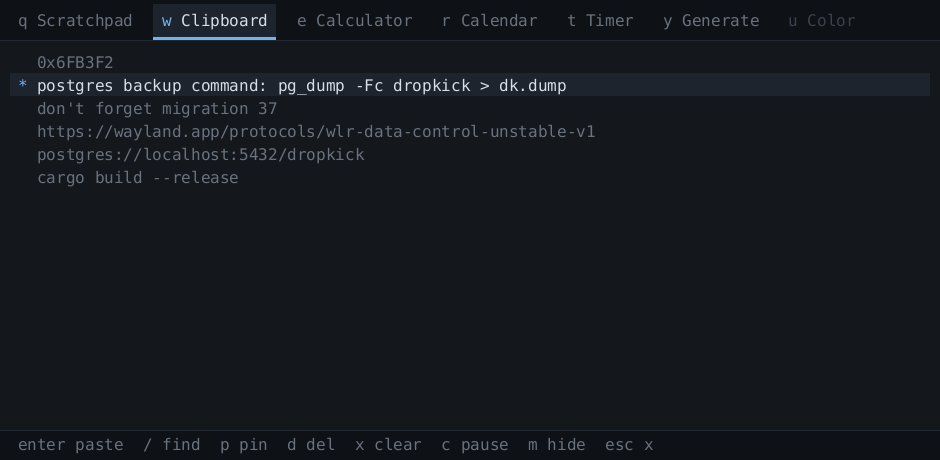
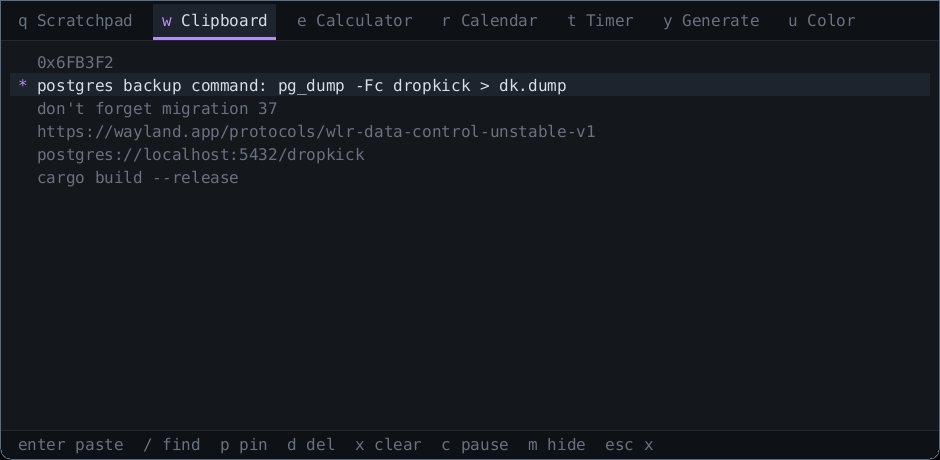
Give each tool its own accent colour
Which tool the panel is in should be readable from the corner of your
eye rather than by reading the tab bar. The active tab's underline and
key letter carry the accent, and so does everything inside it -- the
cursor, the focused day, a running timer's readout, the copied notice.

The palette lives in render.rs, not in core. Core has never known a
colour and should not start: Tool carries a key and a name, and that is
the whole of what it should know about being displayed.

Four constraints, each of them a test rather than a claim. Distinct.
Clear of ERR by more than 30 degrees of hue, so an accent cannot read as
an error. At least 4.5:1 against BG, needed in both directions because
accents are drawn as text and also filled behind background-coloured
text, which is how the Scratchpad's block cursor works. And more than 25
degrees apart from each other, since two tools a few degrees apart look
identical in the peripheral vision this exists for.

Inactive tabs stay dim. Colouring all seven at once was the obvious
thing to try and it is noise -- the signal is which one is lit, and
colouring the unlit ones competes with it.

Committed screenshots regenerated; every one of them shows a tab bar.

310 tests, clippy clean, cargo deny clean.

diff --git a/crates/dropkick-linux/src/render.rs b/crates/dropkick-linux/src/render.rs
@@ -24,7 +24,35 @@ const PAD: f32 = 18.0;
 const BG: u32 = 0x14_171C;
 const TAB_BG: u32 = 0x0E_1115;
 const TAB_ACTIVE: u32 = 0x1E_242E;
+/// The Scratchpad's accent, and the colour the panel wore before the rest of
+/// the tools had their own. Kept as the fallback.
 const ACCENT: u32 = 0x6F_B3F2;
+
+/// One accent per tool, so which tool you are in is readable from the corner of
+/// your eye rather than by reading the tab bar.
+///
+/// Chosen with three constraints, not for prettiness:
+///
+/// * **Well clear of `ERR`** (`0xE06C75`, a salmon red). An accent that could be
+///   mistaken for an error message would undo the point of having an error
+///   colour. Nothing here is redder than 320 degrees of hue.
+/// * **Light enough to read as text on `BG`**, and light enough that `BG` reads
+///   as text on *it* -- the Scratchpad's block cursor fills with the accent and
+///   draws the character in the background colour.
+/// * **Separated in hue**, not just in name. Two tools a few degrees apart are
+///   two tools you cannot tell apart in peripheral vision, which is the only
+///   thing this is for.
+fn accent(id: ToolId) -> u32 {
+    match id {
+        ToolId::Scratchpad => ACCENT,      // blue
+        ToolId::Clipboard => 0xB4_8EF2,    // violet
+        ToolId::Calculator => 0x7F_D69B,   // green
+        ToolId::Calendar => 0xE8_B36F,     // amber
+        ToolId::Timer => 0x5F_D3D6,        // cyan
+        ToolId::Generate => 0xB8_D96F,     // lime
+        ToolId::Color => 0xE8_8FD0,        // orchid
+    }
+}
 const FG: u32 = 0xD8_DEE9;
 const DIM: u32 = 0x69_727F;
 const FAINT: u32 = 0x3A_4250;
@@ -191,7 +219,7 @@ fn draw_tabs(app: &App, text: &mut TextRenderer, canvas: &mut Canvas) {
         if active {
             canvas.fill_rect((x - 9.0) as i32, 4, (w + 18.0) as i32, TAB_H - 4, TAB_ACTIVE);
             // Accent underline: which tab owns the keyboard right now.
-            canvas.fill_rect((x - 9.0) as i32, TAB_H - 3, (w + 18.0) as i32, 3, ACCENT);
+            canvas.fill_rect((x - 9.0) as i32, TAB_H - 3, (w + 18.0) as i32, 3, accent(tool.id));
         }
 
         // A running timer is visible from any tab: the point of a countdown is
@@ -201,7 +229,7 @@ fn draw_tabs(app: &App, text: &mut TextRenderer, canvas: &mut Canvas) {
         let key_color = if !tool.built {
             FAINT
         } else if active {
-            ACCENT
+            accent(tool.id)
         } else {
             DIM
         };
@@ -210,7 +238,7 @@ fn draw_tabs(app: &App, text: &mut TextRenderer, canvas: &mut Canvas) {
         } else if active {
             FG
         } else if live {
-            ACCENT
+            accent(tool.id)
         } else {
             DIM
         };
@@ -259,7 +287,7 @@ fn draw_calculator(
     );
 
     let prompt = "> ";
-    let pen = text.draw(canvas, PAD, input_baseline, prompt, ACCENT);
+    let pen = text.draw(canvas, PAD, input_baseline, prompt, accent(app.active));
     let pen = text.draw(canvas, pen, input_baseline, &app.calculator.input, FG);
     // Caret: a thin bar, because the calculator is always in text entry.
     canvas.fill_rect(
@@ -267,7 +295,7 @@ fn draw_calculator(
         (input_baseline - text.line_height() * 0.72) as i32,
         2,
         (text.line_height() * 0.85) as i32,
-        ACCENT,
+        accent(app.active),
     );
 
     if let (Some(err), Some(y)) = (&app.calculator.error, err_baseline) {
@@ -344,7 +372,7 @@ fn draw_scratchpad(app: &App, text: &mut TextRenderer, canvas: &mut Canvas, top:
             } else {
                 (adv as i32, y - lh * 0.72, lh * 0.85)
             };
-            canvas.fill_rect(cx_px as i32, top_y as i32, w, h as i32, ACCENT);
+            canvas.fill_rect(cx_px as i32, top_y as i32, w, h as i32, accent(app.active));
         }
 
         let mut pen = PAD;
@@ -384,9 +412,9 @@ fn draw_clipboard(app: &App, text: &mut TextRenderer, canvas: &mut Canvas, top: 
     }
 
     if clip.mode == ClipMode::Search {
-        let pen = text.draw(canvas, PAD, y, "/", ACCENT);
+        let pen = text.draw(canvas, PAD, y, "/", accent(app.active));
         let pen = text.draw(canvas, pen, y, &clip.query, FG);
-        canvas.fill_rect(pen as i32 + 1, (y - lh * 0.72) as i32, 2, (lh * 0.85) as i32, ACCENT);
+        canvas.fill_rect(pen as i32 + 1, (y - lh * 0.72) as i32, 2, (lh * 0.85) as i32, accent(app.active));
         y += lh * 1.4;
     }
 
@@ -433,7 +461,7 @@ fn draw_clipboard(app: &App, text: &mut TextRenderer, canvas: &mut Canvas, top: 
         }
 
         let marker = if entry.pinned { "*" } else { " " };
-        text.draw(canvas, PAD, y, marker, if entry.pinned { ACCENT } else { FAINT });
+        text.draw(canvas, PAD, y, marker, if entry.pinned { accent(app.active) } else { FAINT });
 
         let body = if clip.revealed {
             entry.preview(cols)
@@ -521,7 +549,7 @@ fn draw_color(
 
     if c.picking {
         let msg = "click anywhere on screen to pick a colour";
-        text.draw(canvas, PAD, top as f32 + lh * 3.0, msg, ACCENT);
+        text.draw(canvas, PAD, top as f32 + lh * 3.0, msg, accent(app.active));
     }
 
     canvas.fill_rect(
@@ -531,14 +559,14 @@ fn draw_color(
         1,
         RULE,
     );
-    let pen = text.draw(canvas, PAD, input_baseline, "> ", ACCENT);
+    let pen = text.draw(canvas, PAD, input_baseline, "> ", accent(app.active));
     let pen = text.draw(canvas, pen, input_baseline, &c.input, FG);
-    canvas.fill_rect(pen as i32 + 1, (input_baseline - lh * 0.72) as i32, 2, (lh * 0.85) as i32, ACCENT);
+    canvas.fill_rect(pen as i32 + 1, (input_baseline - lh * 0.72) as i32, 2, (lh * 0.85) as i32, accent(app.active));
 
     if let Some(p) = c.problem {
         text.draw(canvas, PAD, input_baseline - lh * 1.8, p, ERR);
     } else if let Some(n) = &c.notice {
-        text.draw(canvas, PAD, input_baseline - lh * 1.8, n, ACCENT);
+        text.draw(canvas, PAD, input_baseline - lh * 1.8, n, accent(app.active));
     }
 }
 
@@ -600,13 +628,13 @@ fn draw_calendar(app: &App, text: &mut TextRenderer, canvas: &mut Canvas, top: i
                 (row_y - lh * 0.78) as i32,
                 (adv * 2.9) as i32,
                 (lh * 0.95) as i32,
-                if c.mode == Mode::Grid { ACCENT } else { SELECT },
+                if c.mode == Mode::Grid { accent(app.active) } else { SELECT },
             );
         }
         let colour = if focused && c.mode == Mode::Grid {
             BG
         } else if date == c.today {
-            ACCENT
+            accent(app.active)
         } else {
             FG
         };
@@ -627,7 +655,7 @@ fn draw_calendar(app: &App, text: &mut TextRenderer, canvas: &mut Canvas, top: i
         MONTH_NAMES[(c.focus.month - 1) as usize]
     );
     let mut ly = top as f32 + lh * 1.6;
-    text.draw(canvas, list_x, ly, &heading, if c.focus == c.today { ACCENT } else { FG });
+    text.draw(canvas, list_x, ly, &heading, if c.focus == c.today { accent(app.active) } else { FG });
     ly += lh * 1.8;
 
     let entries = c.on(c.focus);
@@ -648,7 +676,7 @@ fn draw_calendar(app: &App, text: &mut TextRenderer, canvas: &mut Canvas, top: i
         }
         // All-day entries line up under the times rather than jutting left.
         let when = e.time.map_or_else(|| "  -  ".to_string(), format_time);
-        text.draw(canvas, list_x, ly, &when, if e.time.is_some() { ACCENT } else { FAINT });
+        text.draw(canvas, list_x, ly, &when, if e.time.is_some() { accent(app.active) } else { FAINT });
         text.draw(canvas, list_x + adv * 6.5, ly, &e.text, FG);
         ly += lh * 1.2;
     }
@@ -659,7 +687,7 @@ fn draw_calendar(app: &App, text: &mut TextRenderer, canvas: &mut Canvas, top: i
         Mode::Text => {
             let line = format!("what: {}", c.draft_text);
             let pen = text.draw(canvas, list_x, ly, &line, FG);
-            canvas.fill_rect(pen as i32 + 1, (ly - lh * 0.72) as i32, 2, (lh * 0.85) as i32, ACCENT);
+            canvas.fill_rect(pen as i32 + 1, (ly - lh * 0.72) as i32, 2, (lh * 0.85) as i32, accent(app.active));
             ly += lh * 1.3;
             text.draw(canvas, list_x, ly, "enter for the time, esc to cancel", FAINT);
         }
@@ -668,7 +696,7 @@ fn draw_calendar(app: &App, text: &mut TextRenderer, canvas: &mut Canvas, top: i
             ly += lh * 1.3;
             let line = format!("when: {}", c.draft_time);
             let pen = text.draw(canvas, list_x, ly, &line, FG);
-            canvas.fill_rect(pen as i32 + 1, (ly - lh * 0.72) as i32, 2, (lh * 0.85) as i32, ACCENT);
+            canvas.fill_rect(pen as i32 + 1, (ly - lh * 0.72) as i32, 2, (lh * 0.85) as i32, accent(app.active));
             ly += lh * 1.3;
             match c.problem {
                 Some(msg) => text.draw(canvas, list_x, ly, msg, ERR),
@@ -685,7 +713,7 @@ fn draw_calendar(app: &App, text: &mut TextRenderer, canvas: &mut Canvas, top: i
             let am = if h == 12 { 0 } else { h };
             let pm = if h == 12 { 12 } else { h + 12 };
             let opts = format!("a  {}        p  {}", format_time(am * 60), format_time(pm * 60));
-            text.draw(canvas, list_x, ly, &opts, ACCENT);
+            text.draw(canvas, list_x, ly, &opts, accent(app.active));
         }
         _ => {}
     }
@@ -768,7 +796,7 @@ fn draw_generate(
         "nothing here is stored, or kept after you close the panel"
     };
     let px = (canvas.w as f32 - text.width_of(promise)) / 2.0;
-    text.draw(canvas, px, y, promise, if g.copied { ACCENT } else { FAINT });
+    text.draw(canvas, px, y, promise, if g.copied { accent(app.active) } else { FAINT });
 }
 
 fn draw_timer(
@@ -787,7 +815,7 @@ fn draw_timer(
     let readout = format_duration(t.display_ms(now_ms));
     let x = (canvas.w as f32 - big.width_of(&readout)) / 2.0;
     let color = if t.finished {
-        ACCENT
+        accent(app.active)
     } else if t.is_running() {
         FG
     } else {
@@ -810,7 +838,7 @@ fn draw_timer(
         let entry = format!("> {}", t.input);
         let ex = (canvas.w as f32 - text.width_of(&entry)) / 2.0;
         let pen = text.draw(canvas, ex, y, &entry, FG);
-        canvas.fill_rect(pen as i32 + 1, (y - lh * 0.72) as i32, 2, (lh * 0.85) as i32, ACCENT);
+        canvas.fill_rect(pen as i32 + 1, (y - lh * 0.72) as i32, 2, (lh * 0.85) as i32, accent(app.active));
         y += lh;
     }
     if let Some(err) = &t.error {
@@ -827,7 +855,7 @@ fn draw_hints(app: &App, text: &mut TextRenderer, canvas: &mut Canvas) {
 
     match &app.notice {
         Some(notice) => {
-            text.draw(canvas, PAD, baseline, notice, ACCENT);
+            text.draw(canvas, PAD, baseline, notice, accent(app.active));
         }
         None => {
             text.draw(canvas, PAD, baseline, app.hints(), DIM);
@@ -857,6 +885,93 @@ mod tests {
             apply_opacity(&mut canvas, opacity);
         }
         (buf, w, h)
+    }
+
+    /// Perceived brightness, the same WCAG relative luminance the Color tool
+    /// uses. Duplicated rather than imported so this test does not depend on a
+    /// tool's implementation to check the chrome.
+    fn luminance(c: u32) -> f64 {
+        let f = |v: u32| {
+            let x = v as f64 / 255.0;
+            if x <= 0.04045 { x / 12.92 } else { ((x + 0.055) / 1.055).powf(2.4) }
+        };
+        0.2126 * f((c >> 16) & 0xFF) + 0.7152 * f((c >> 8) & 0xFF) + 0.0722 * f(c & 0xFF)
+    }
+
+    fn contrast(a: u32, b: u32) -> f64 {
+        let (x, y) = (luminance(a), luminance(b));
+        let (hi, lo) = if x > y { (x, y) } else { (y, x) };
+        (hi + 0.05) / (lo + 0.05)
+    }
+
+    fn hue(c: u32) -> f64 {
+        let (r, g, b) =
+            (((c >> 16) & 0xFF) as f64, ((c >> 8) & 0xFF) as f64, (c & 0xFF) as f64);
+        let (max, min) = (r.max(g).max(b), r.min(g).min(b));
+        let d = max - min;
+        if d == 0.0 {
+            return 0.0;
+        }
+        let h = if max == r {
+            60.0 * (((g - b) / d) % 6.0)
+        } else if max == g {
+            60.0 * ((b - r) / d + 2.0)
+        } else {
+            60.0 * ((r - g) / d + 4.0)
+        };
+        (h + 360.0) % 360.0
+    }
+
+    const ALL_TOOLS: [ToolId; 7] = [
+        ToolId::Scratchpad,
+        ToolId::Clipboard,
+        ToolId::Calculator,
+        ToolId::Calendar,
+        ToolId::Timer,
+        ToolId::Generate,
+        ToolId::Color,
+    ];
+
+    #[test]
+    fn every_tool_has_its_own_accent() {
+        let mut seen: Vec<u32> = Vec::new();
+        for id in ALL_TOOLS {
+            let a = accent(id);
+            assert!(!seen.contains(&a), "{id:?} reuses an accent");
+            seen.push(a);
+        }
+    }
+
+    #[test]
+    fn accents_are_readable_both_ways_round() {
+        // As text on the panel, and as a block cursor with BG text on top of it.
+        for id in ALL_TOOLS {
+            let c = contrast(accent(id), BG);
+            assert!(c >= 4.5, "{id:?} is only {c:.1}:1 against the background");
+        }
+    }
+
+    #[test]
+    fn no_accent_can_be_mistaken_for_an_error() {
+        // ERR is a salmon red. An accent sitting next to it in hue would make
+        // "something went wrong" and "you are in this tool" look alike.
+        for id in ALL_TOOLS {
+            let d = (hue(accent(id)) - hue(ERR)).abs().min(360.0 - (hue(accent(id)) - hue(ERR)).abs());
+            assert!(d > 30.0, "{id:?} is {d:.0} degrees from the error colour");
+        }
+    }
+
+    #[test]
+    fn accents_are_separated_enough_to_tell_apart() {
+        // Peripheral vision is the whole point; two tools a few degrees apart
+        // are two tools that look the same when you are not looking at them.
+        for (i, a) in ALL_TOOLS.iter().enumerate() {
+            for b in ALL_TOOLS.iter().skip(i + 1) {
+                let raw = (hue(accent(*a)) - hue(accent(*b))).abs();
+                let d = raw.min(360.0 - raw);
+                assert!(d > 25.0, "{a:?} and {b:?} are only {d:.0} degrees apart");
+            }
+        }
     }
 
     #[test]

diff --git a/docs/PROJECT_LOG.md b/docs/PROJECT_LOG.md
@@ -1635,6 +1635,36 @@ window beneath. `set_input_region` limited to the panel rectangle fixes that,
 and is worth doing whenever the shadow happens. Anchored `TOP`, the shadow above
 the panel is against the screen edge and mostly wasted.
 
+## AN ACCENT PER TOOL — 2026-08-23 (user)
+
+Seven tools, seven accents. The point is peripheral: which tool the panel is in
+should be readable without reading the tab bar. The active tab's underline and
+key letter carry it, and so does everything inside — the cursor, the focused
+day, a running timer's readout, the "copied" notice.
+
+The palette lives in `render.rs`, not in core. Core has never known a colour and
+should not start; `Tool` carries a key and a name, and that is the whole of what
+it should know about being displayed.
+
+Chosen against constraints rather than for prettiness, each of which is a test:
+
+- **Distinct**, obviously.
+- **Clear of `ERR`** by more than 30 degrees of hue. An accent that reads as the
+  error colour undoes the point of having one, so nothing is redder than orchid.
+- **At least 4.5:1 against `BG`**, which is needed in both directions: accents
+  are drawn as text on the panel *and* filled behind background-coloured text,
+  because that is how the Scratchpad's block cursor works.
+- **More than 25 degrees apart from each other.** Two tools a few degrees apart
+  are two tools that look identical when you are not looking at them, which is
+  the only situation this feature exists for.
+
+Inactive tabs stay `DIM`. Seven colours across the bar at once was the obvious
+thing to try and it is noise: the signal is *which one is lit*, and colouring
+the unlit ones competes with it.
+
+The committed screenshots were regenerated, since every one of them shows a tab
+bar.
+
 ## NEXT
 
 The interaction grammar is settled, so: the tab bar plus two tools, far enough
